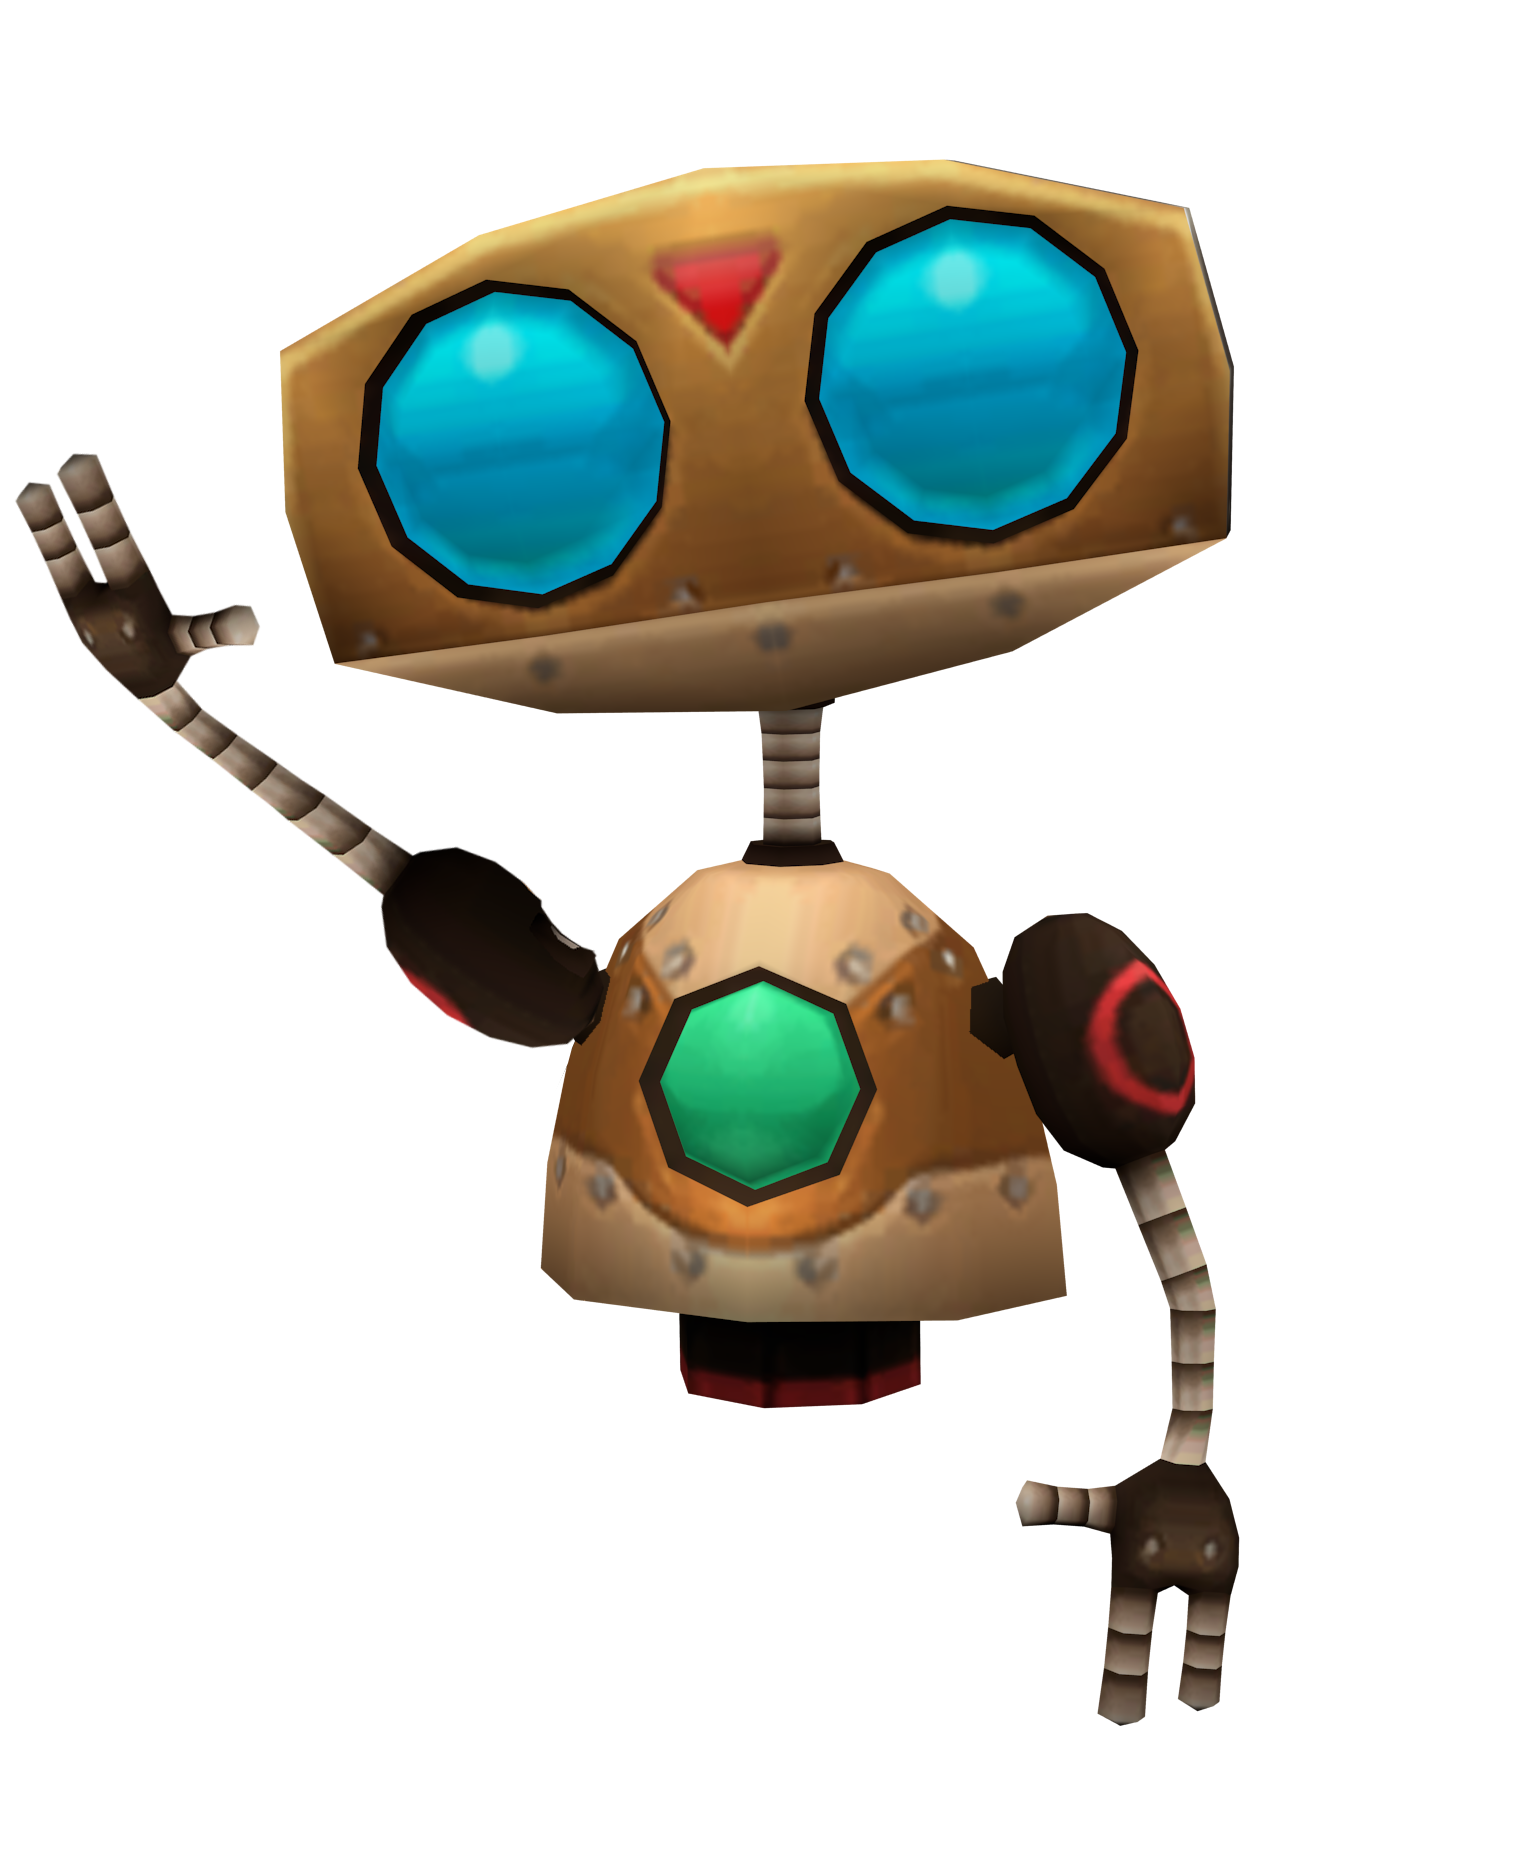
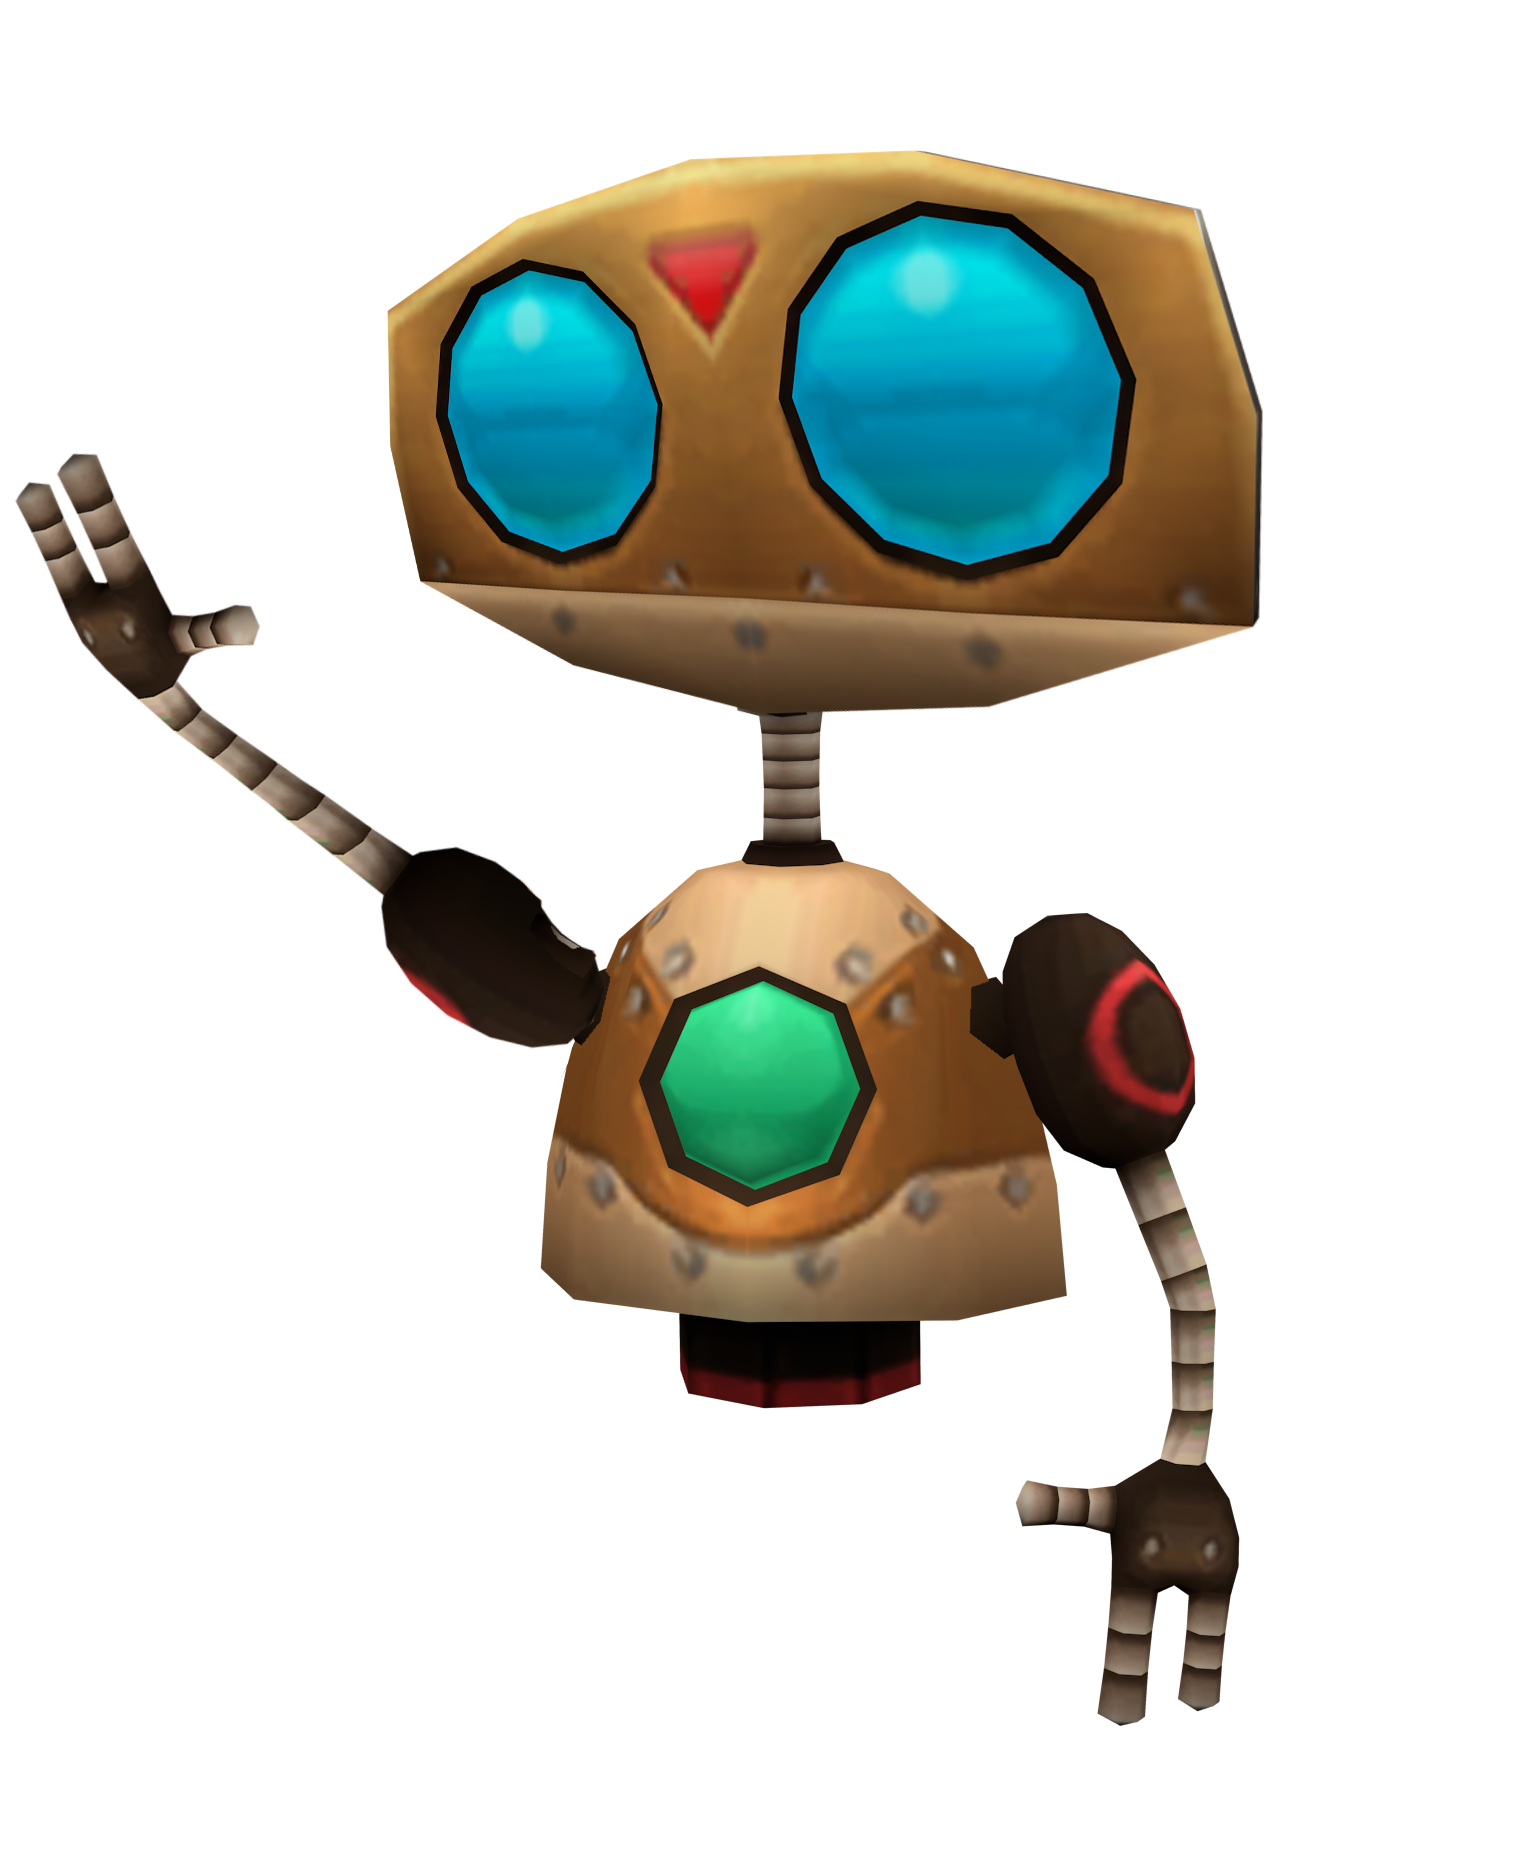
grafika

Changed region(s): [[0.1858, 0.0616, 0.836, 0.4003]]

diff --git a/public_html/script.js b/public_html/script.js
@@ -406,10 +406,15 @@ $('document').ready(function(){
     });
     $( ".user" ).click(function() {
         focuse();
+        document.getElementById('robot').src="Infobot_render.png";
     });
     $( ".user" ).focusout(function() {
         noFocuse();
     });
+    $( ".gsc-results-close-btn" ).click(function() {
+        document.getElementById('robot').src="Infobot_render.png";
+    });
+    
 });
 
 
